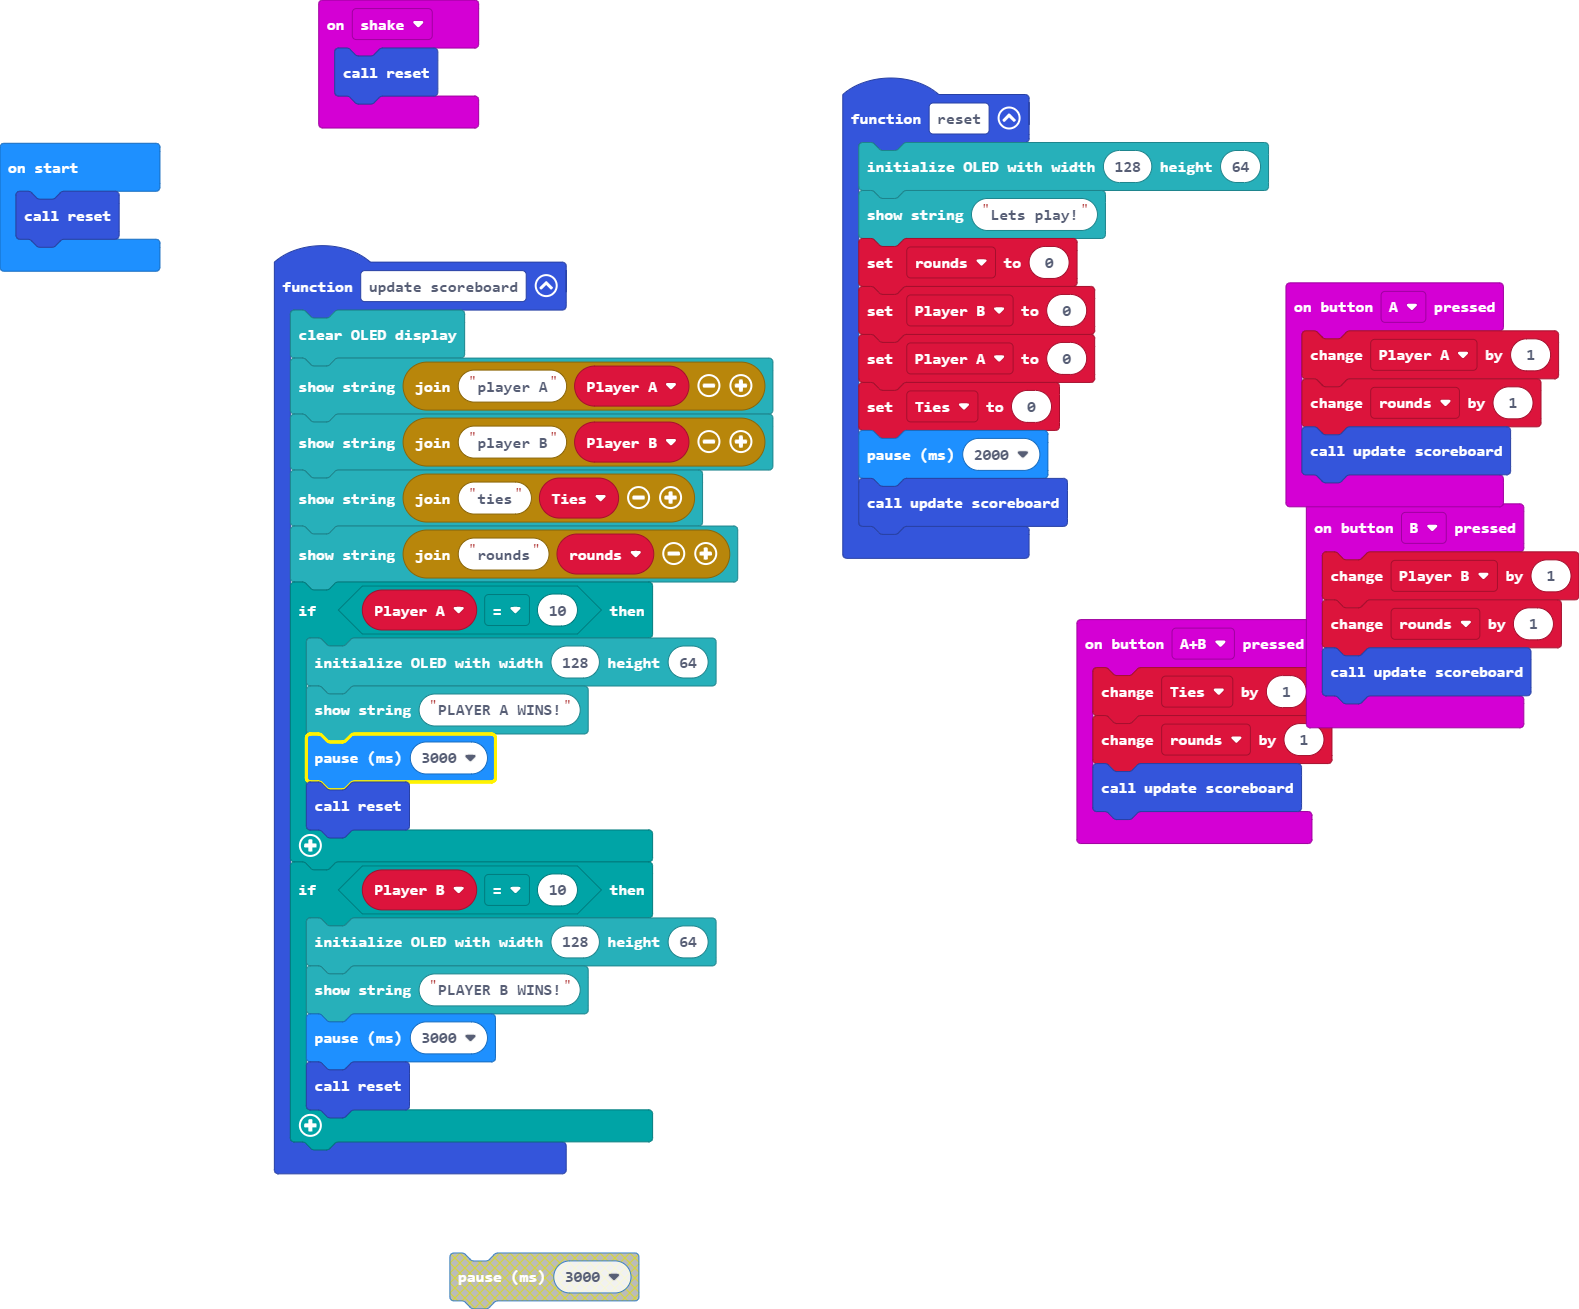
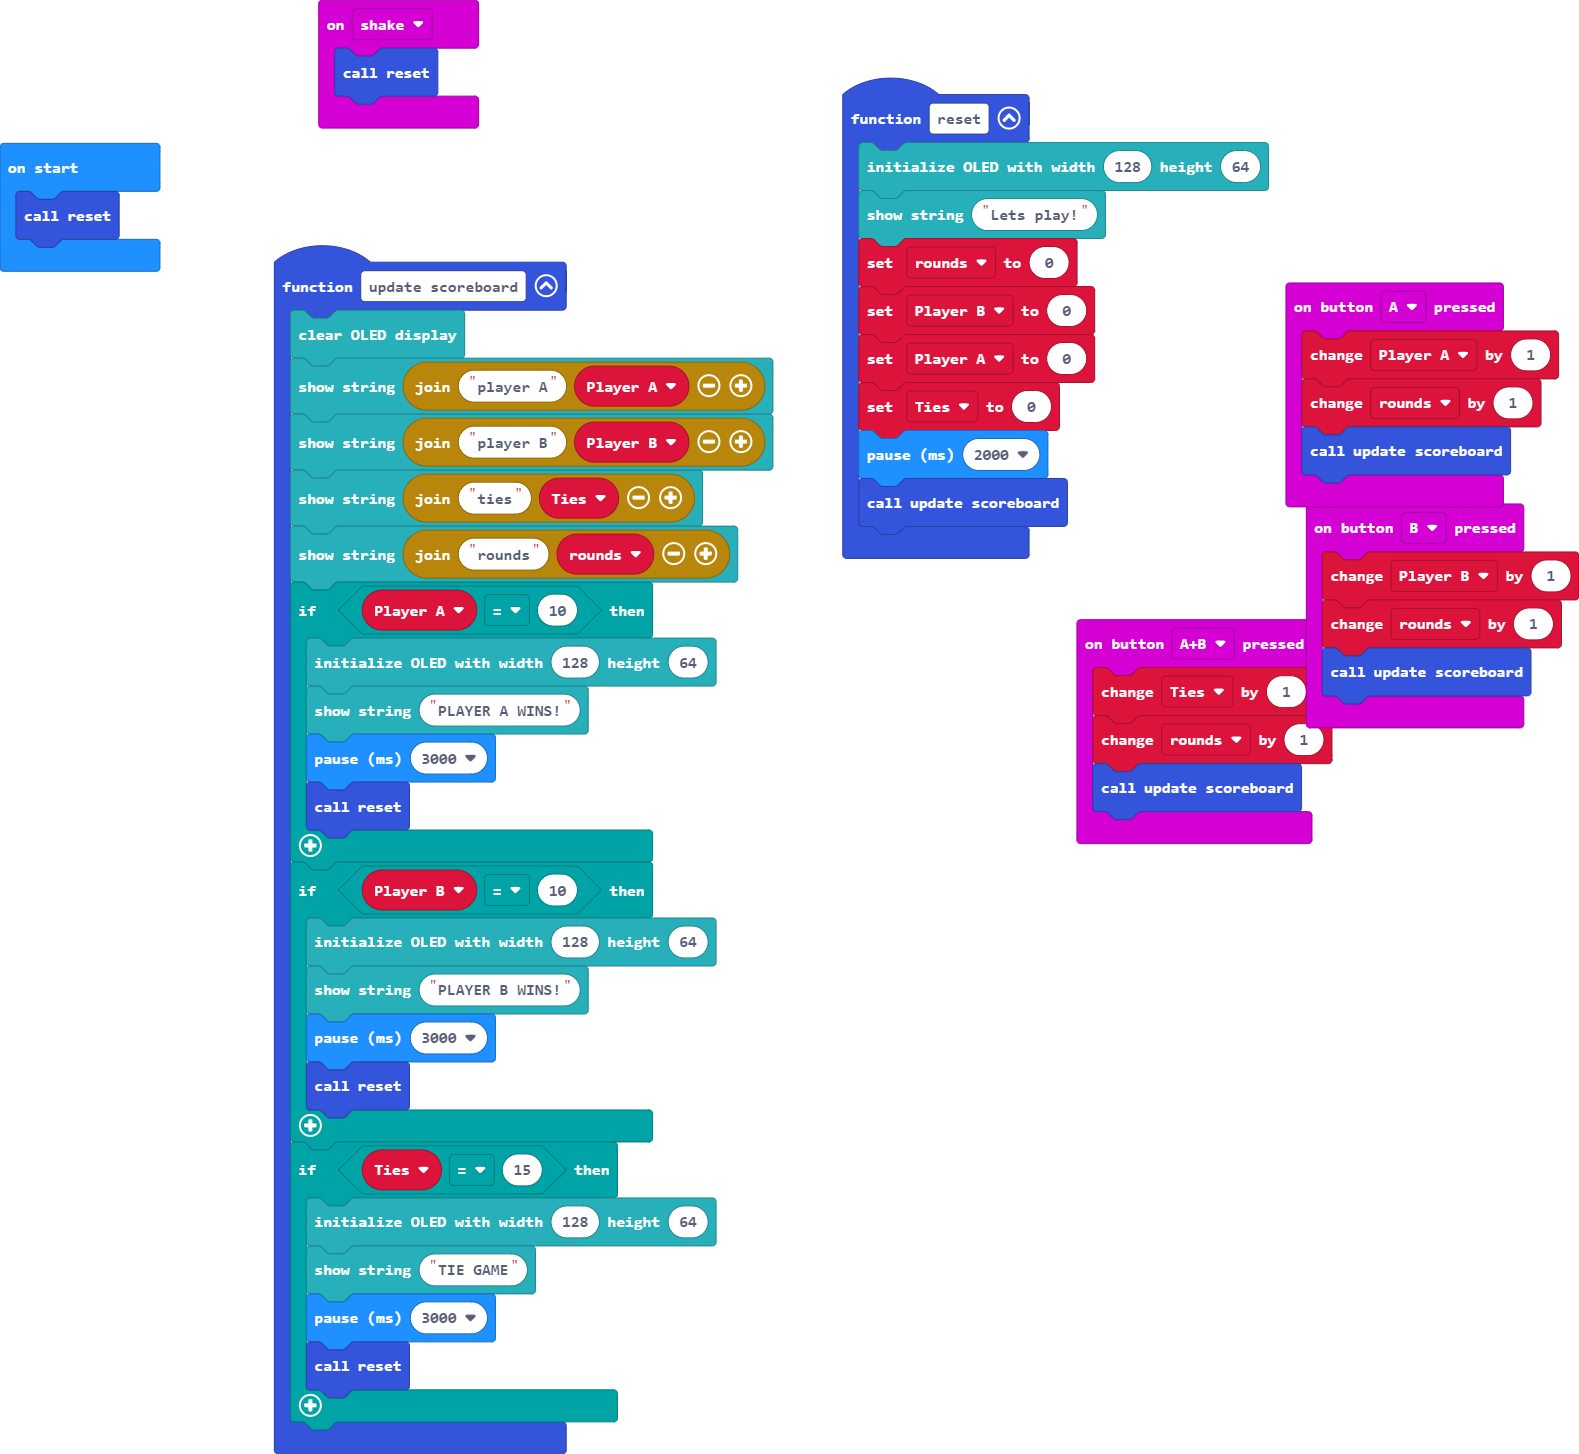
Update main.blocks, main.ts

diff --git a/main.ts b/main.ts
@@ -21,6 +21,12 @@ function update_scoreboard () {
         basic.pause(3000)
         reset()
     }
+    if (Ties == 15) {
+        OLED.init(128, 64)
+        OLED.writeStringNewLine("TIE GAME")
+        basic.pause(3000)
+        reset()
+    }
 }
 input.onButtonPressed(Button.AB, function () {
     Ties += 1
